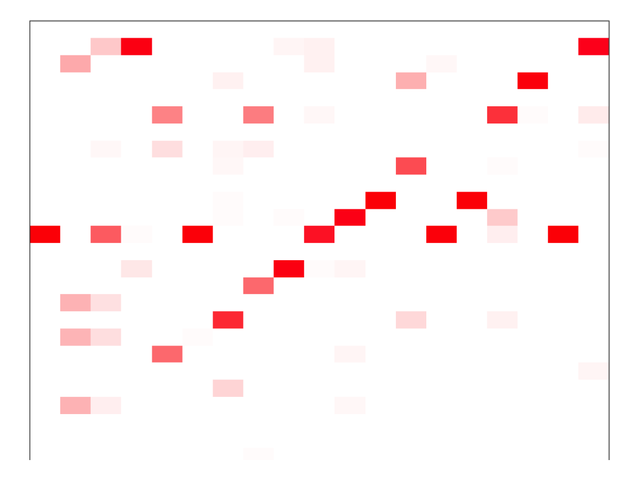
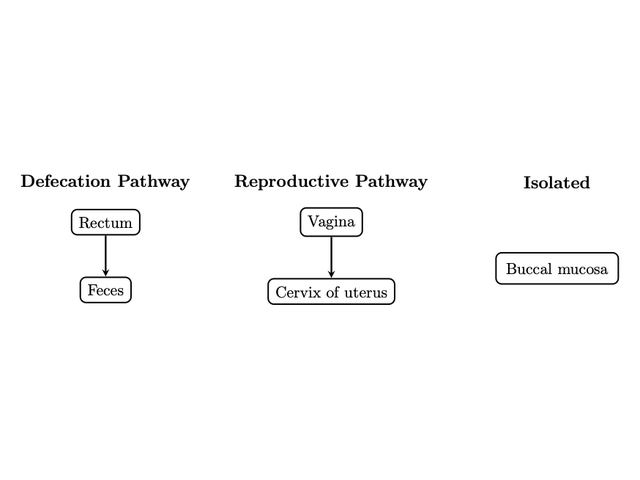
Use the authors' own tree figures for two publication cards
Swap in DirectedTree and Phylogenetic (supplied as TIFF, flattened and
letterboxed to the 4:3 thumbnail slot; the phylogeny's thin grey branches
are thickened and darkened so they survive at card size).

diff --git a/research.md b/research.md
@@ -47,7 +47,7 @@ layout: homepage
   </div>
 
   <div class="pub">
-    <div class="pub-thumb"><img src="./assets/img/papers/phylogeny-selection.png" alt="Posterior means under phylogeny-guided versus independent shrinkage" loading="lazy"></div>
+    <div class="pub-thumb"><img src="./assets/img/papers/phylogeny-selection.png" alt="Selected local subtree of phylogenetically related genera" loading="lazy"></div>
     <div class="pub-body">
       <h3><a href="https://shuang-jie.github.io/files/SJ-PJ6.pdf">Phylogeny-Guided Selection of Microbiome Features using Bayesian Prevalence-Aware Multinomial Logit Normal Regression</a></h3>
       <p class="pub-authors">Zhu, Z., Zhang, S., Tang, X., &amp; Zhang, L. (2026+)</p>
@@ -60,7 +60,7 @@ layout: homepage
   </div>
 
   <div class="pub">
-    <div class="pub-thumb"><img src="./assets/img/papers/directed-trees.png" alt="Estimated transition matrix between parent and child communities" loading="lazy"></div>
+    <div class="pub-thumb"><img src="./assets/img/papers/directed-trees.png" alt="Learned tree: rectum to feces, vagina to cervix, and an isolated buccal node" loading="lazy"></div>
     <div class="pub-body">
       <h3><a href="https://arxiv.org/abs/2605.03178">Structure Learning for Directed Trees with Zero-Inflated Compositional Nodes</a></h3>
       <p class="pub-authors">Zhang, S., Mallick, B., &amp; Ni, Y. (2026+)</p>
